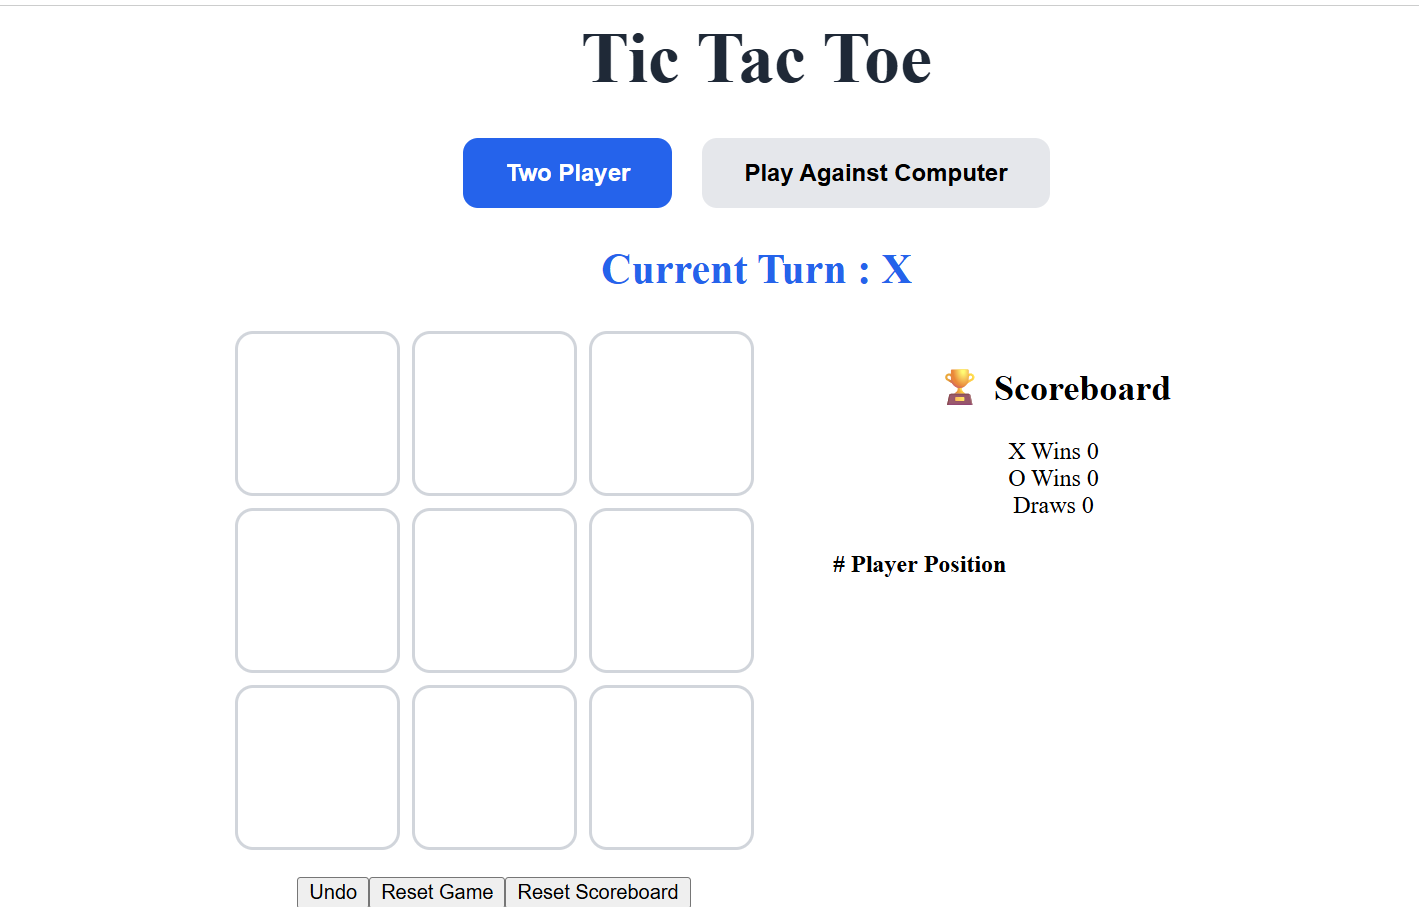
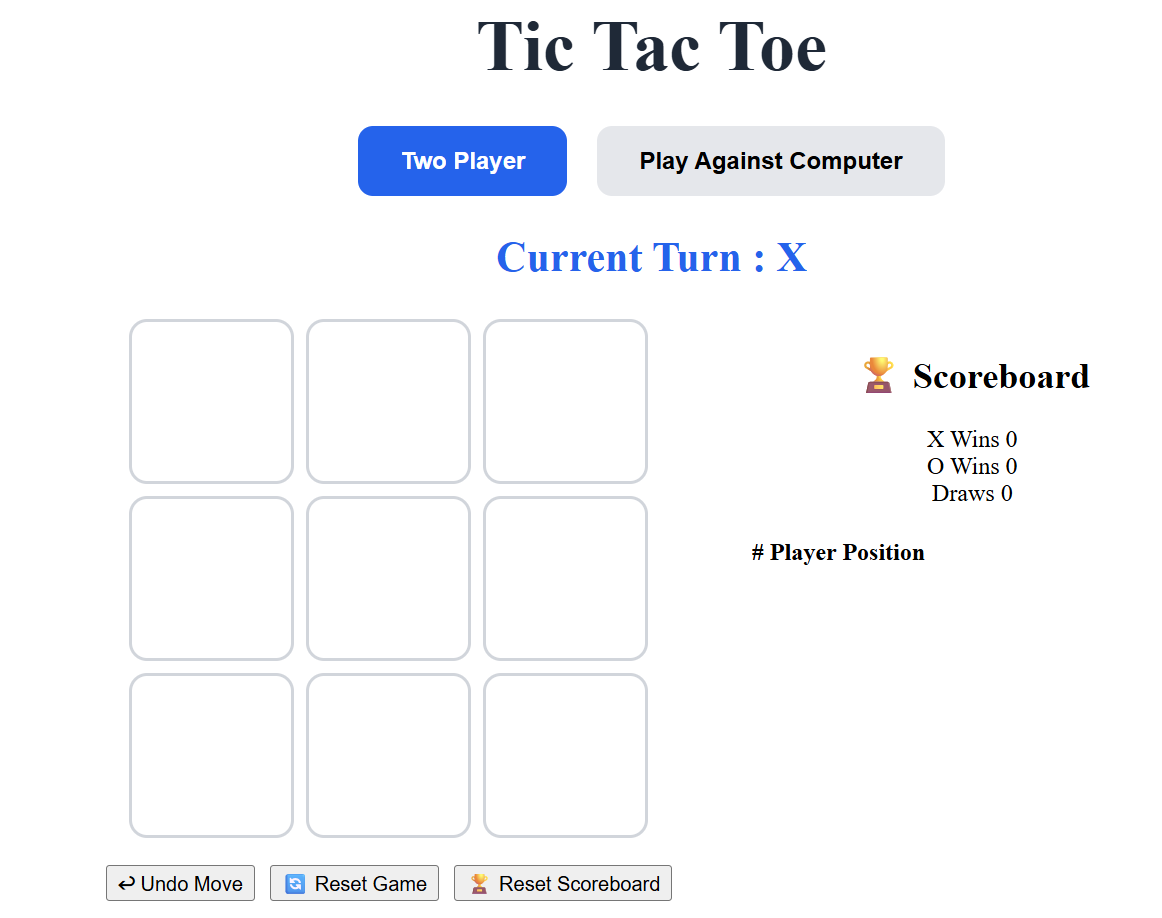
Updated screenshot and readme file

diff --git a/README.md b/README.md
@@ -11,7 +11,7 @@ The backend serves as the source of truth and manages all game rules, move valid
 # Tech Stack
 
 ## Frontend
-- Angular
+- Angular 22.0.0
 - TypeScript
 - HTML5
 - CSS3